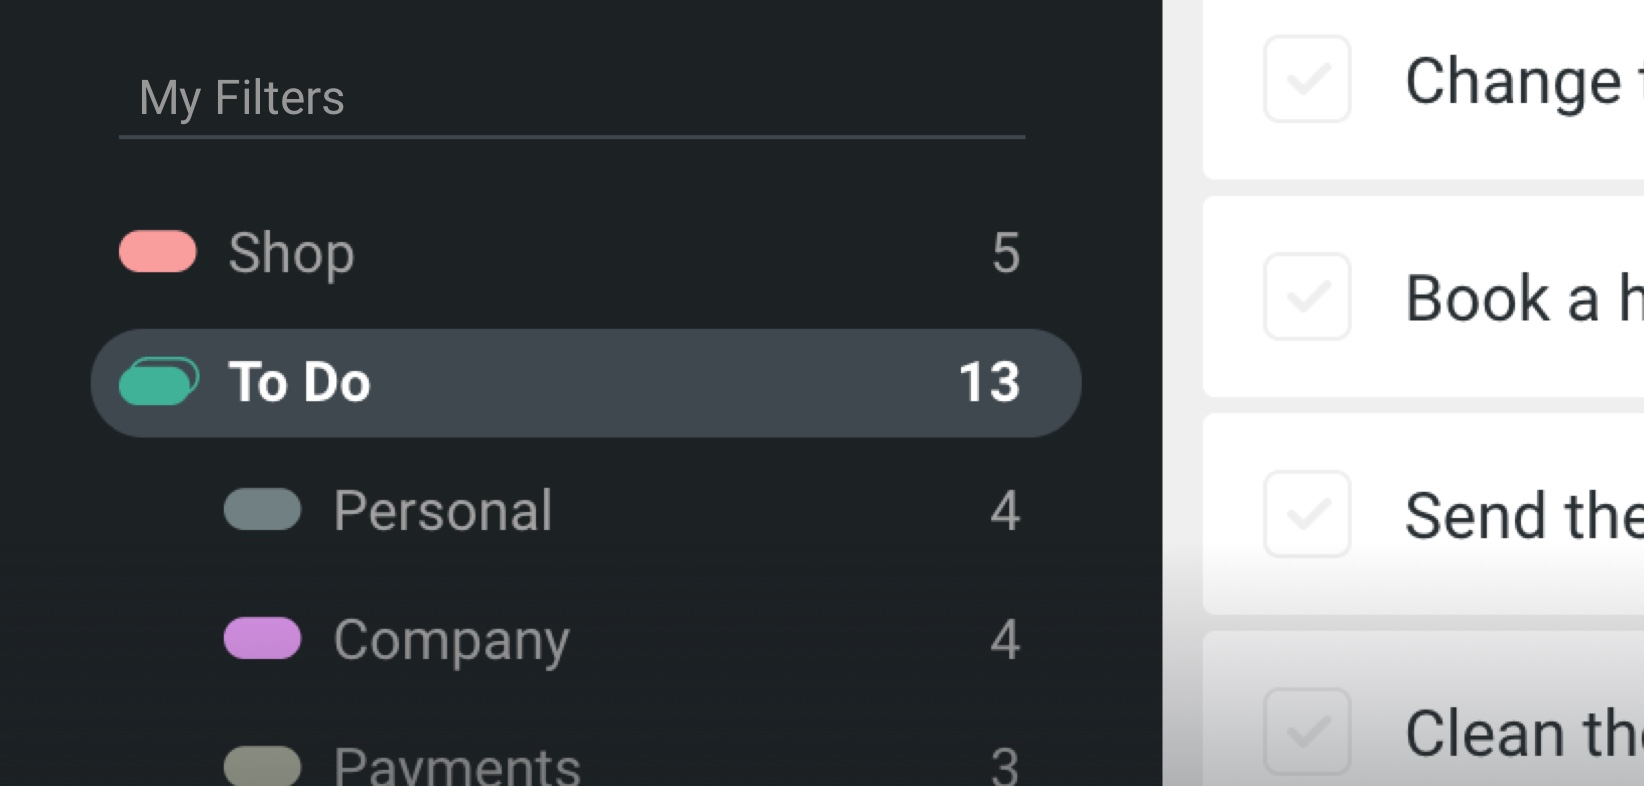
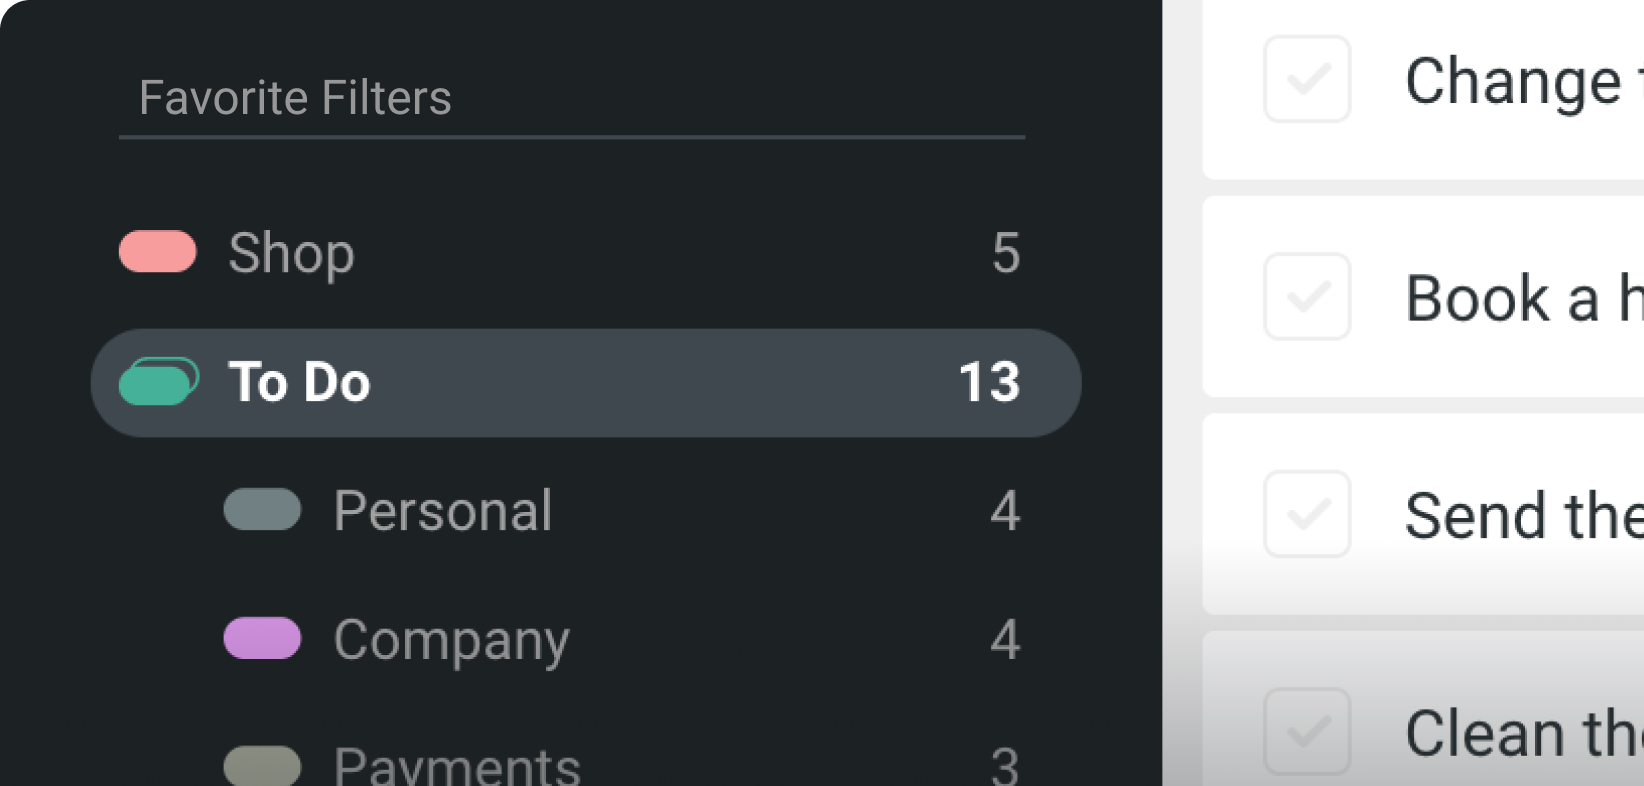
fix: Fix tile of tag tree in in initial tips

Changed region(s): [[0.0931, 0.0916, 0.2792, 0.1527], [0.9927, 0.6412, 1.0, 0.6718], [0.0, 0.0, 0.031, 0.0305]]

diff --git a/app/components/tips/initial-tips/index.js b/app/components/tips/initial-tips/index.js
@@ -77,9 +77,9 @@ const InitialTips = ({ onClose }) => {
     },
     3: {
       description: `
-        On the left-hand side under „My Filters” you can create and manage filtered views on your
-        Tasks. What is more, you can even compose the hierarchies of the Tags which can represent
-        mind structures of categories and sub-categories of your favorite filtered views
+        On the left-hand side under „Favorite Filters” you can create and manage filtered views on
+        your Tasks. What is more, you can even compose the hierarchies of the Tags which can
+        represent mind structures of categories and sub-categories of your favorite filtered views
         you use most frequently.
         <br />The entire list of all created Tags are managed in "Tags" list.
       `,

diff --git a/app/redux/data/schema.js b/app/redux/data/schema.js
@@ -48,7 +48,6 @@ const task = new schema.Entity(
         const { createdById, userId } = entity
         const assignee = getAssigneeOfTask(entity.followers)
         if (createdById !== userId && assignee !== null) {
-          console.log(entity)
           const { isArchived, isImportant, order, reminderDate } = assignee
 
           _.set(entity, 'isArchived', isArchived)
